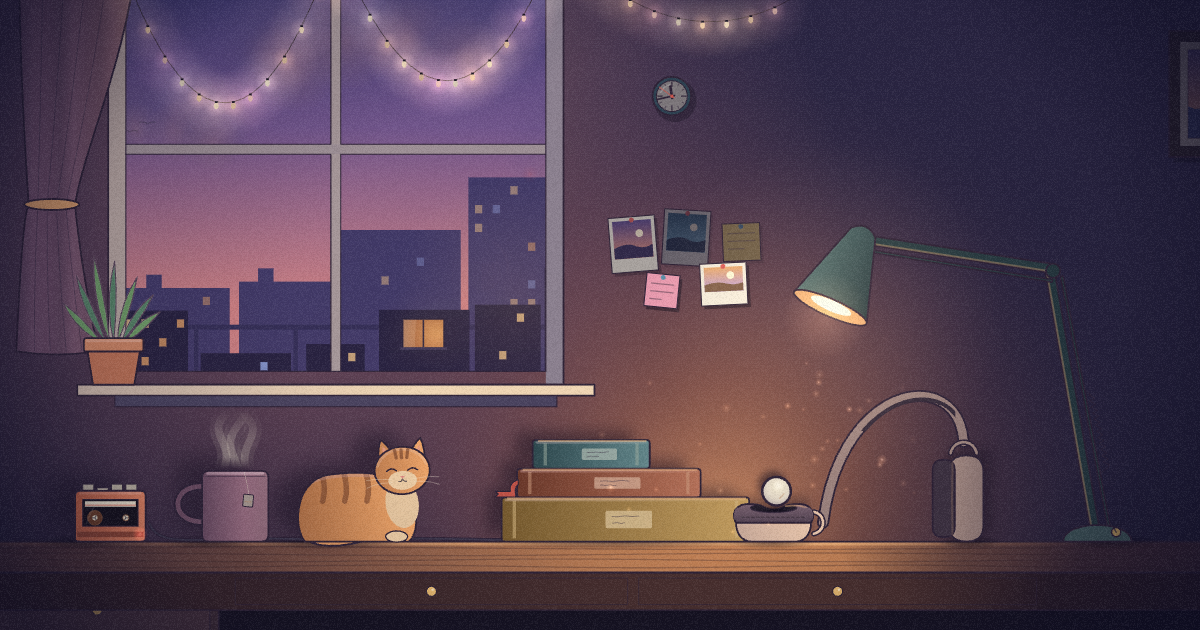
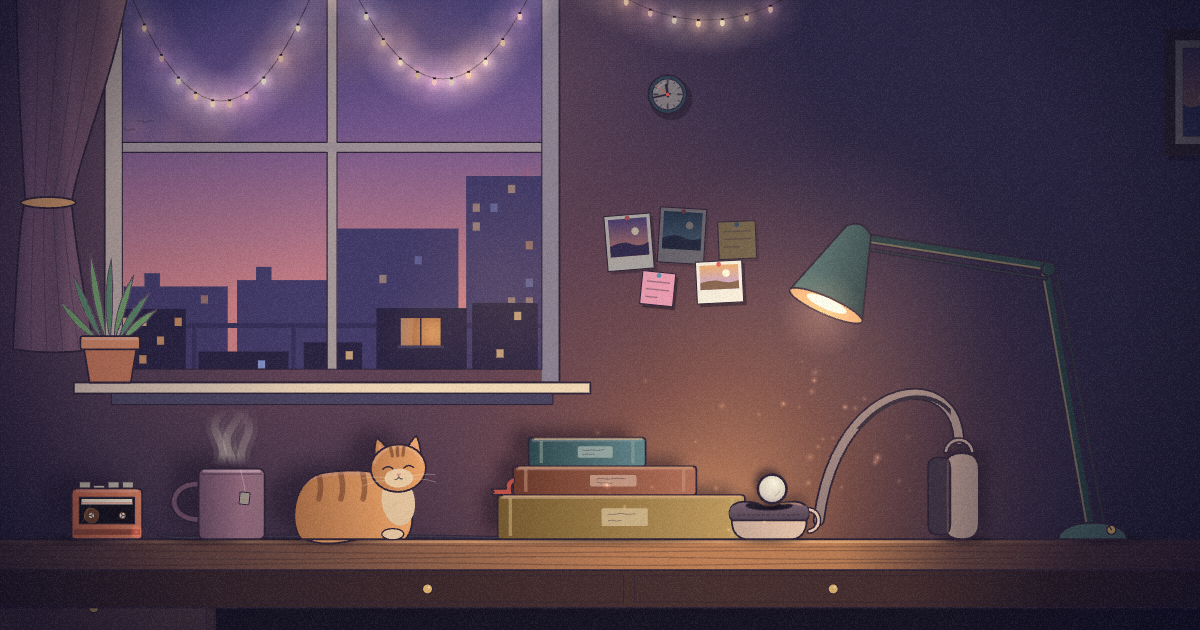
Soft Lamp: the still take held, not frozen
The still take's camera now drifts over minutes (about a tenth of a cell
across, a twentieth vertically, a hair in scale, a tenth of a pixel a second
at 1080p), too slow to read as a move, so the city past the glass shifts
faintly against the window's bars. Kept between the plant, the lamp's foot and
the print at the frame's edges; check:shows holds the drift's size, speed and
every prop whole throughout.

diff --git a/apps/rube/checks/soft-lamp.ts b/apps/rube/checks/soft-lamp.ts
@@ -260,19 +260,35 @@ export function checkSoftLampStill(perf: Performance, version: Version, check: C
     typeof version.still === 'number')
   check('soft lamp (still): the same show and music as the first take', perf.show === show && perf.duration === DURATION &&
     perf.soundtrack?.youtube?.[0]?.id === YOUTUBE)
-  const cams = [0, 300, 900, 1500, DURATION].map((t) => perf.camera!(t))
-  check('soft lamp (still): one held frame from the first second to the last', cams.every((c) => c.x === cams[0].x && c.y === cams[0].y && c.cells === cams[0].cells))
-  const c = cams[0]
-  const hw = (c.cells * 16) / 9 / 2
-  const hh = c.cells / 2
-  const sliced = Object.entries(PROPS).filter(([, [x0, y0, x1, y1]]) =>
-    x1 > c.x - hw && x0 < c.x + hw && y1 > c.y - hh && y0 < c.y + hh && !(x0 >= c.x - hw + 0.1 && x1 <= c.x + hw - 0.1 && y0 >= c.y - hh + 0.1 && y1 <= c.y + hh + 0.5))
-  check('soft lamp (still): its frame shows each thing whole, or not at all', sliced.length === 0, sliced.map(([n]) => n).join(', '))
+  // Held: it drifts, but within a few per cent and slower than anyone would see as a move.
+  let drift = 0
+  let speed = 0
+  const c0 = perf.camera!(0)
+  for (let t = 0; t < DURATION; t += 1) {
+    const a = perf.camera!(t)
+    const b = perf.camera!(t + 1)
+    drift = Math.max(drift, Math.hypot(a.x - c0.x, a.y - c0.y) / c0.cells, Math.abs(a.cells / c0.cells - 1))
+    speed = Math.max(speed, Math.hypot(b.x - a.x, b.y - a.y) / a.cells)
+  }
+  check('soft lamp (still): one held frame, drifting no more than a few per cent, imperceptibly slowly', drift < 0.05 && speed < 0.0005,
+    `drift ${(drift * 100).toFixed(1)}%, ${(speed * 100).toFixed(3)}% of a frame a second`)
+  const sliced = new Set<string>()
+  for (let t = 0; t < DURATION; t += 5) {
+    const c = perf.camera!(t)
+    const hw = (c.cells * 16) / 9 / 2
+    const hh = c.cells / 2
+    for (const [name, [x0, y0, x1, y1]] of Object.entries(PROPS))
+      if (x1 > c.x - hw && x0 < c.x + hw && y1 > c.y - hh && y0 < c.y + hh && !(x0 >= c.x - hw + 0.1 && x1 <= c.x + hw - 0.1 && y0 >= c.y - hh + 0.1 && y1 <= c.y + hh + 0.5)) sliced.add(name)
+  }
+  check('soft lamp (still): its frame shows each thing whole, or not at all, all the while', sliced.size === 0, [...sliced].join(', '))
   let lost = 0
   let out = 0
   let n = 0
   for (let t = 0; t < DURATION; t += 0.25) {
     const b = ballAt(t)
+    const c = perf.camera!(t)
+    const hw = (c.cells * 16) / 9 / 2
+    const hh = c.cells / 2
     n++
     if (Math.abs(b.x - c.x) > hw - R || Math.abs(b.y - c.y) > hh - R) out++
     if (Math.abs(b.x - c.x) > hw / 1.5 - R || Math.abs(b.y - c.y) > hh / 1.5 - R) lost++

diff --git a/apps/rube/src/shows/versions/soft-lamp/lamp/index.ts b/apps/rube/src/shows/versions/soft-lamp/lamp/index.ts
@@ -57,5 +57,18 @@ export const performance: Performance = {
  * as the streams are. The room's home frame (the window and its curtain, the kitten, the books, the headphones and the
  * whole lamp), held from the first second to the last. Everything the first take plays to its camera happens in it too.
  */
-export const HOME = { x: 0.95, y: -2.05, cells: 5.7 }
-export const stillPerformance: Performance = { ...performance, camera: () => HOME }
+export const HOME = { x: 0.91, y: -2.05, cells: 5.7 }
+/**
+ * Held, but not frozen: it drifts a little over minutes (a tenth of a cell across, a twentieth up and down, a hair nearer
+ * and back, kept between the plant, the lamp's foot and the print at the frame's edges), too slow to see as a move, enough that the city past the glass shifts faintly against the
+ * window's bars, as it does to anyone sitting at a desk.
+ */
+export function stillCamera(t: number): { x: number; y: number; cells: number } {
+  const T = Math.PI * 2
+  return {
+    x: HOME.x + 0.09 * Math.sin((T * t) / 610),
+    y: HOME.y + 0.05 * Math.sin((T * t) / 430 + 1.3),
+    cells: HOME.cells * (1 + 0.004 * Math.sin((T * t) / 890 + 2.1)),
+  }
+}
+export const stillPerformance: Performance = { ...performance, camera: stillCamera }

diff --git a/apps/rube/src/shows/versions/soft-lamp/SOFTLAMP.md b/apps/rube/src/shows/versions/soft-lamp/SOFTLAMP.md
@@ -1184,6 +1184,11 @@ painterly look (taken, the sixty-ninth pass). The other two would change the pie
      (the wash under the name where the name is), a phone held upright (the whole room, floor to ceiling, round the
      frame), a scrub back (the same frame), and sixty frames a second in Chrome with its GPU at dusk, in the rain, past
      midnight and at the end. Nothing to change.
+189. **Held, but not frozen.** A frame frozen dead loses the window's depth: the city's layers only slide against the
+     bars when the camera moves. The still take now drifts over minutes, a tenth of a cell across, a twentieth up and
+     down, a hair nearer and back (a tenth of a pixel a second at 1080p), too slow to see as a move; over a few minutes
+     the city shifts faintly behind the bars, as it does to anyone sitting at a desk. The drift keeps between the plant,
+     the lamp's foot and the print at the frame's edges; `check:shows` holds it there all the while, and slow.
 
 **Subtracted:** the camera following the ball along the sill (a held frame now); the cup, close, from the camera's rotation; the moth's shadow (four reviewers read it as a stain); the face's drips; the band's slider strip;
 twenty-three moments in the director's cut (sixteen thinking pauses, two trains, two crossings, five
